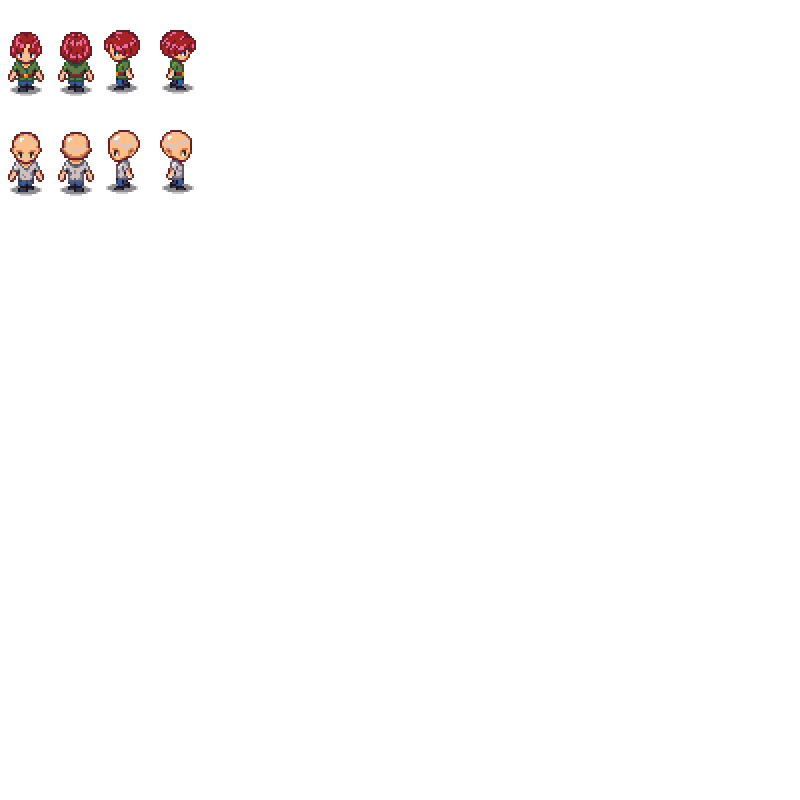
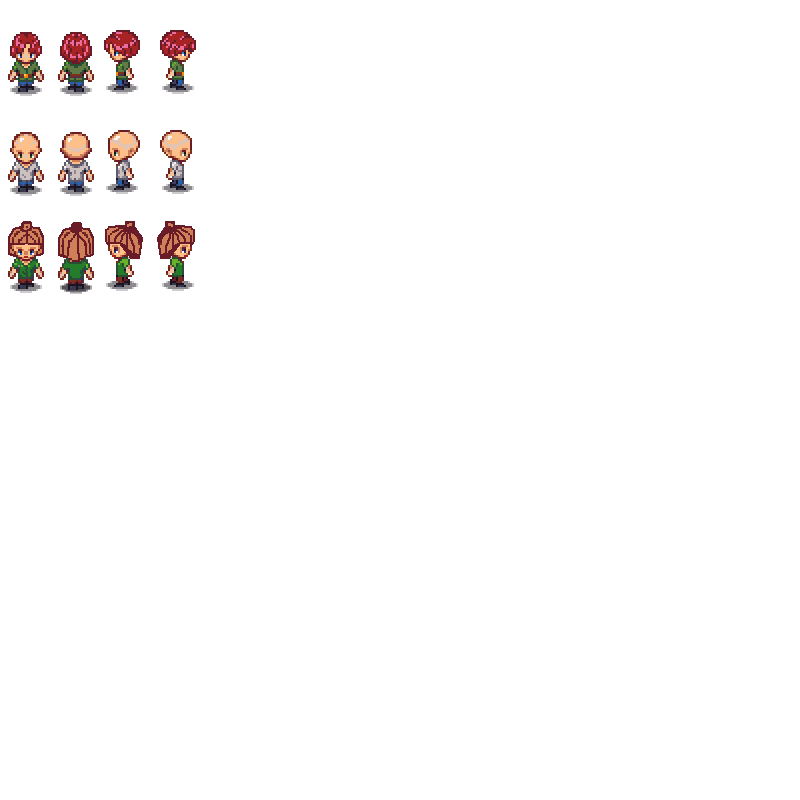
Added 2nd NPC using 1st NPC as template.

Changed region(s): [[0.0, 0.2812, 0.25, 0.375]]

diff --git a/js/daggerAssets.js b/js/daggerAssets.js
@@ -133,6 +133,17 @@ const animators = {
         }
     },
 
+    "NPC2": {
+        cls: "Animator",
+        animations: {
+            [Animator.idle]: "NPC2",
+            [Animator.idleSouth]: "NPC2",
+            [Animator.idleNorth]: "NPC2_IDLE_NORTH",
+            [Animator.idleWest]: "NPC2_IDLE_WEST",
+            [Animator.idleEast]: "NPC2_IDLE_EAST",
+        }
+    },
+
 }
 
 /**
@@ -185,6 +196,22 @@ const daggerLootTables = {
 const daggerNpcs = {
     NPC1: {
         sketch: animators["NPC1"],
+        yOff: -25,
+        collider: {
+            color: "rgba(175,175,175,.75)",
+            width: 20, 
+            height: 30, 
+            //blocking: false,
+        },
+        dialogs: [
+            { tag: "q1Start", predicate: (npc) => !quests.checkStarted("q1") && !quests.checkDone("q1") && !quests.checkCompleted("q1")},
+            { tag: "q1Wait", predicate: (npc) => quests.checkStarted("q1") },
+            { tag: "q1Done", predicate: (npc) => quests.checkDone("q1") },
+            { tag: "q1Complete", predicate: (npc) => quests.checkCompleted("q1") },
+        ],
+    },
+    NPC2: {
+        sketch: animators["NPC2"],
         yOff: -25,
         collider: {
             color: "rgba(175,175,175,.75)",
@@ -909,6 +936,11 @@ const daggerAssets = [
         {tag: "NPC1_IDLE_NORTH",      cls: "Sprite", width: 50, height: 100, xoffset: 50, yoffset: 100 },
         {tag: "NPC1_IDLE_WEST",       cls: "Sprite", width: 50, height: 100, xoffset: 150, yoffset: 100 },
         {tag: "NPC1_IDLE_EAST",       cls: "Sprite", width: 50, height: 100, xoffset: 200, yoffset: 100 },
+    // 301   
+        {tag: "NPC2",                 id: 301, cls: "Sprite", width: 50, height: 100, xoffset: 0, yoffset: 200 },
+        {tag: "NPC2_IDLE_NORTH",      cls: "Sprite", width: 50, height: 100, xoffset: 50, yoffset: 200 },
+        {tag: "NPC2_IDLE_WEST",       cls: "Sprite", width: 50, height: 100, xoffset: 150, yoffset: 200 },
+        {tag: "NPC2_IDLE_EAST",       cls: "Sprite", width: 50, height: 100, xoffset: 200, yoffset: 200 },
     ]},
 ];
 

diff --git a/js/WorldGen.js b/js/WorldGen.js
@@ -51,7 +51,7 @@ var lvl1Spec = {
        21, 16, 29, 16, 13, 11, 11,  0,  0,  0, 20, 19, 12, 11, 17, 25, 
        21,  0,  0, 79, 76, 51,  0,  0,  0, 74, 22, 14, 46, 12, 14, 20, 
        25, 18, 65, 18, 18, 18, 18, 18, 18, 18, 21, 13, 12, 11, 13, 20, 
-       21, 14, 26, 14, 22, 14, 22, 14, 14, 14, 22,300,  0,  0,  4, 20, 
+       21, 14, 26, 14, 22, 14, 22, 14, 14, 14, 22,300,  0,301,  4, 20, 
        21, 13, 27, 13, 30, 13, 30, 13, 13, 13, 22,  0,  0,  0,  0, 20, 
        21,  4,  0,  0, 31, 11, 31, 12,  0, 37, 22,  0, 38, 41,  0, 20, 
        25, 18, 18, 18, 18, 18, 18, 18, 18, 18, 18, 18, 18, 18, 18, 25,
